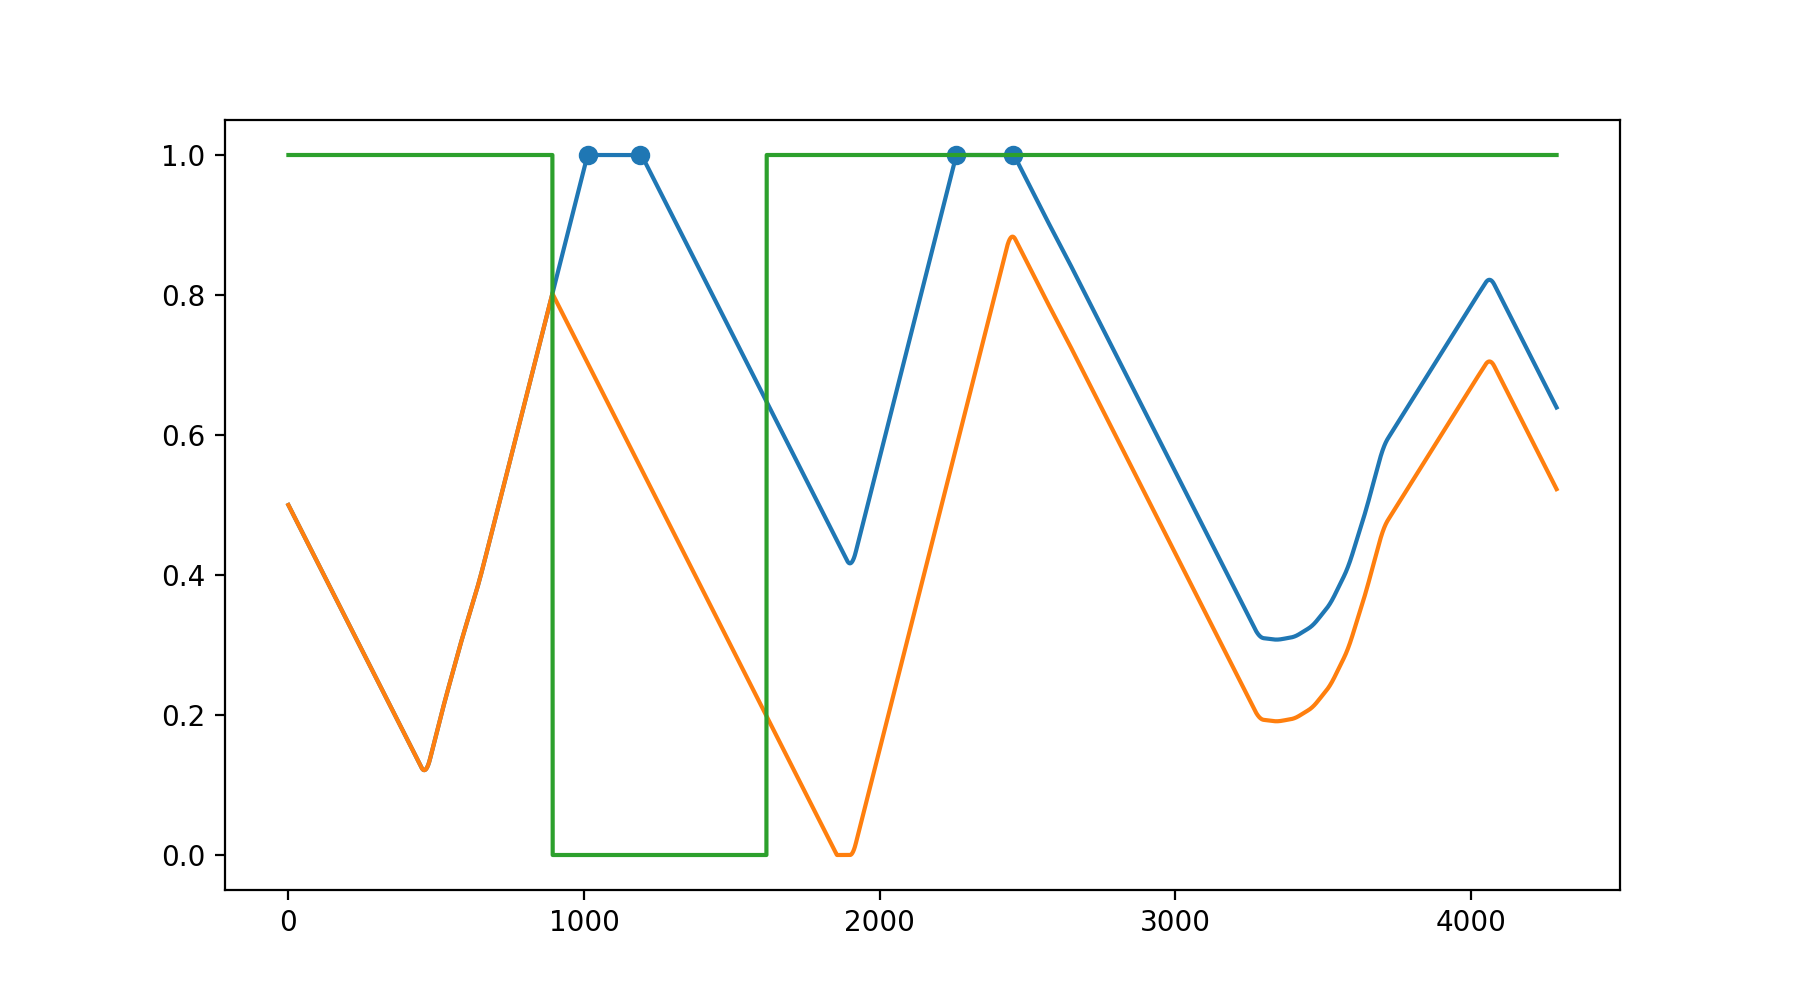
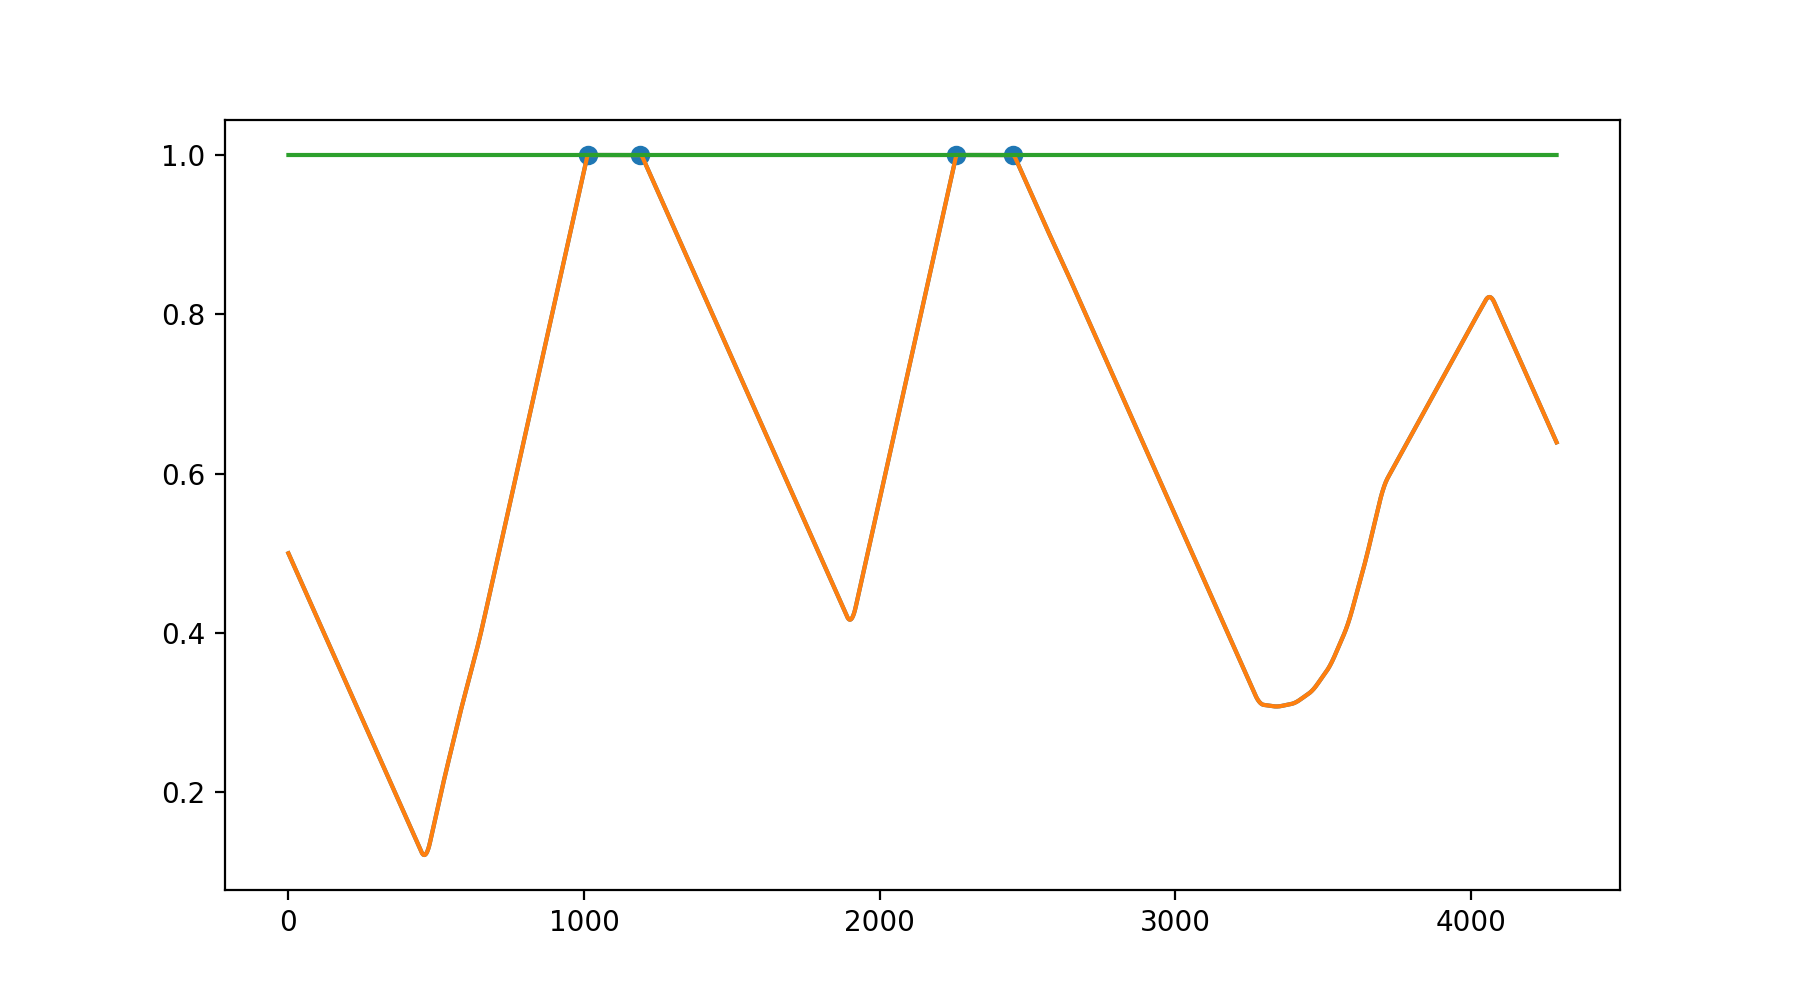
xd

diff --git a/optimizer.py b/optimizer.py
@@ -77,7 +77,8 @@ class Optimizer:
         for i in range(p1, p2):
             delta_loss = 𝕊.integrate_loss(p1, i)
             current_total = start_val - delta_loss
-            if current_total < 0.2 * 𝕊.Pm:
+            # if current_total < 0.2 * 𝕊.Pm:
+            if current_total < 0.4 * 𝕊.Pm:
                 return i - 1
 
             total = start_val + \
@@ -126,6 +127,7 @@ class Optimizer:
     def merge_tops(𝕊):
         extremes = 𝕊.compute_extremes(𝕊.max_p_integral, 𝕊.Pm)
         if len(extremes):
+            # extremes.insert(0, [0, 0])
             extremes.insert(0, [0, 0])
         
         while extremes and (e := extremes.pop(0)):
@@ -142,6 +144,7 @@ class Optimizer:
                     𝕊.Pa[p1:p2] = [False] * (p2-p1)
                     𝕊.max_p_integral = 𝕊.compute_p_integral()
                     𝕊.merge_tops()
+                    break
 
 if __name__ == "__main__":
     dt = 0.001
@@ -151,6 +154,7 @@ if __name__ == "__main__":
     extremes = j.compute_extremes(j.max_p_integral, j.Pm, True)
     plt.plot(j.max_p_integral)
     plt.scatter(*zip(*extremes))
+    j.flatten_tops()
     j.merge_tops()
     plt.plot(j.max_p_integral)
     plt.plot(*zip(*enumerate(j.Pa)))
